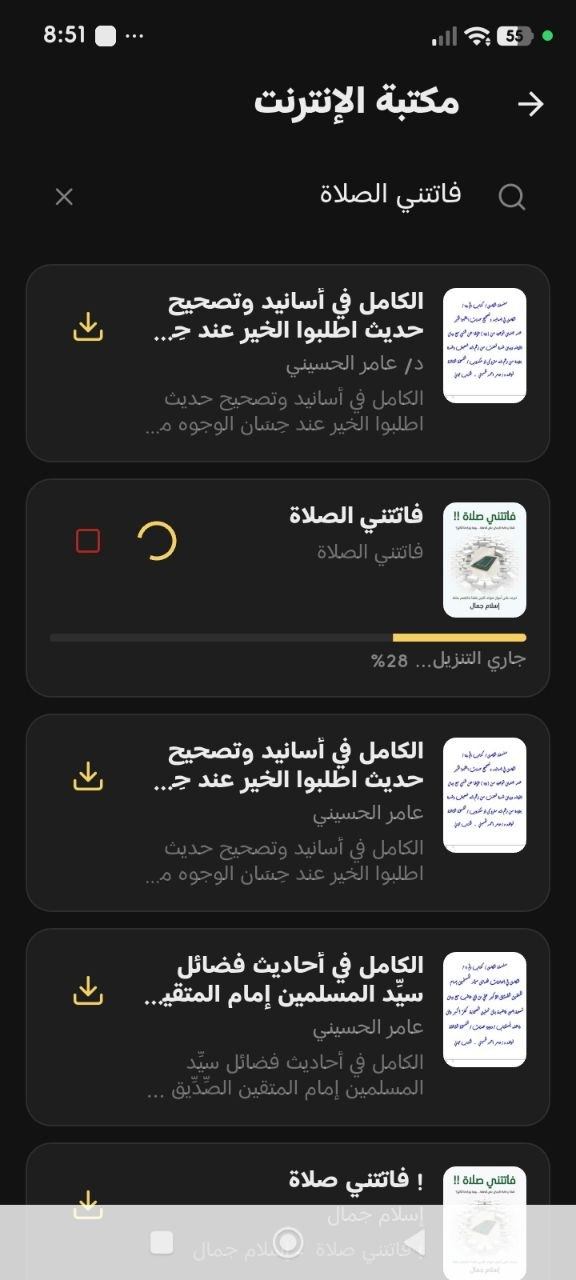
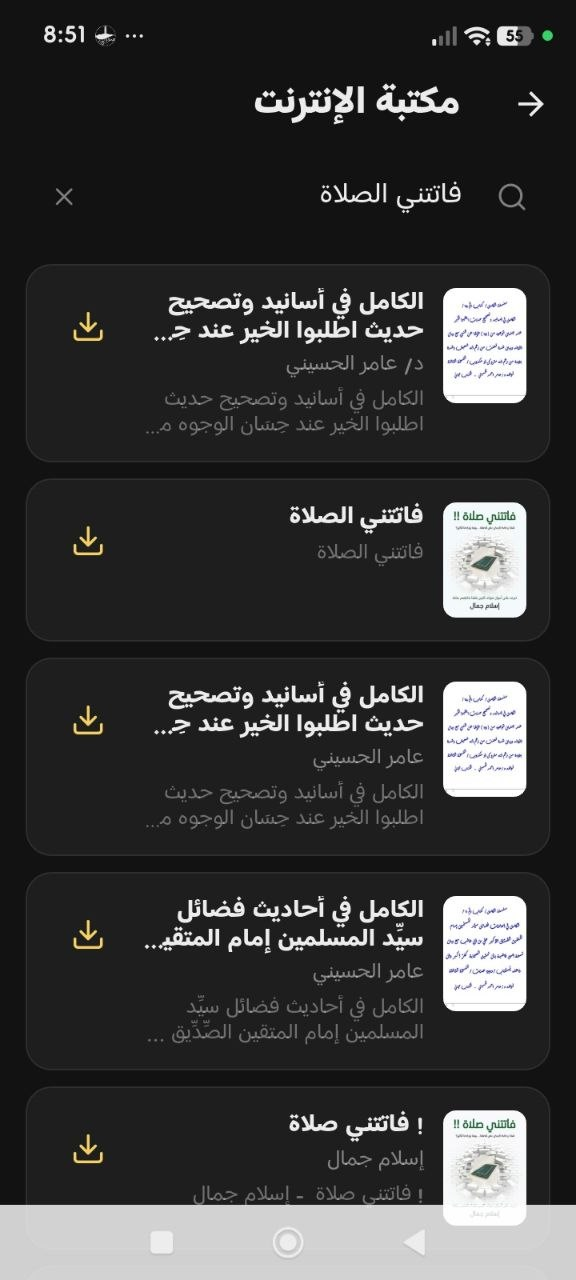
إعادة ترقيم لقطات الشاشة: 1.1→6, 6→7, 7→8, 8→9

diff --git a/README.md b/README.md
@@ -19,12 +19,12 @@
 | --- | --- |
 | ![شاشة 5](assets/app/screenshot-5.jpg) | ![شاشة 4](assets/app/screenshot-4.jpg) |
 
-| 7 | 6 | 1.1 |
+| 8 | 7 | 6 |
 | --- | --- | --- |
-| ![شاشة 7](assets/app/screenshot-7.jpg) | ![شاشة 6](assets/app/screenshot-6.jpg) | ![شاشة 1.1](assets/app/screenshot-1.1.png) |
+| ![شاشة 8](assets/app/screenshot-8.jpg) | ![شاشة 7](assets/app/screenshot-7.jpg) | ![شاشة 6](assets/app/screenshot-6.png) |
 
 <p align="center">
-  <img src="assets/app/screenshot-8.jpg" width="150" alt="شاشة 8" />
+  <img src="assets/app/screenshot-9.jpg" width="150" alt="شاشة 9" />
 </p>
 
 ## التحميل المباشر
